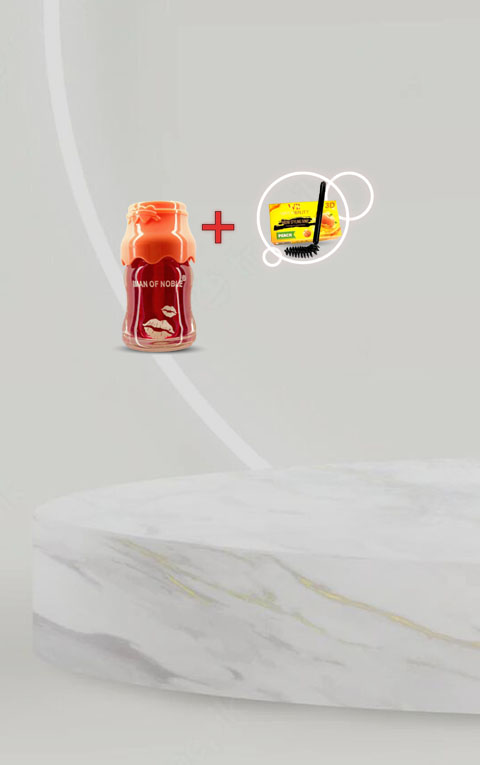
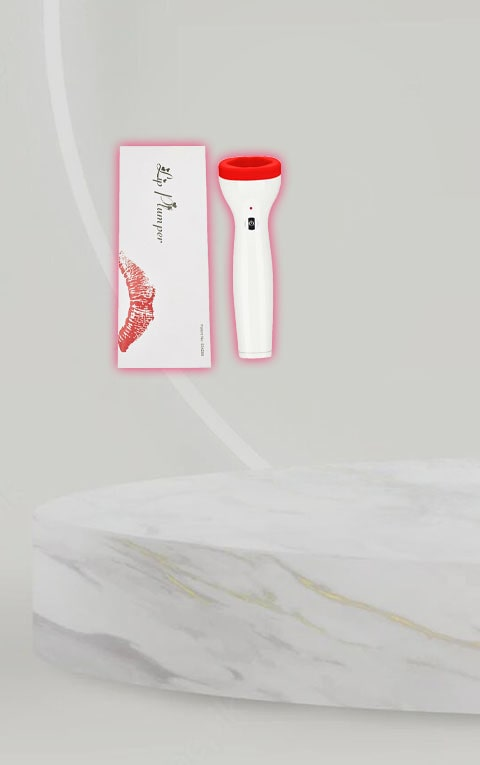
Lip Enlarger v1

Changed region(s): [[0.2188, 0.1804, 0.7812, 0.5111]]

diff --git a/public/purplerelaxFiles/lipenlarger/popup.js b/public/purplerelaxFiles/lipenlarger/popup.js
@@ -1,15 +1,12 @@
- 
-var modal2 = document.getElementById("myModal2");
-var span9 = document.getElementsByClassName("close9")[0];
+
+var orderModal = document.getElementById("orderModal");
+
 $(document).ready(function(){
     $(".fform").click(function() {
-        modal2.style.display = "block";
+        orderModal.style.display = "block";
     });
+    var closeSpan = document.getElementsByClassName("close")[0];
+    closeSpan.onclick = function() {
+        orderModal.style.display = "none";
+    };
 });
- 
-window.onclick = function(event) {
-    if (event.target == modal2) {
-        modal2.style.display = "none";
-    }
-   
-}

diff --git a/public/purplerelaxFiles/lipenlarger/style.css b/public/purplerelaxFiles/lipenlarger/style.css
@@ -190,7 +190,7 @@ a {
     margin: auto;
     padding: 30px 0;
     border: 1px solid #888;
-    width: 337px;
+    width: 337px !important;
     text-align: center;
 
 }

diff --git a/resources/views/lander/purplerelax/rs/lipenlarger.blade.php b/resources/views/lander/purplerelax/rs/lipenlarger.blade.php
@@ -26,29 +26,24 @@
     </style>
 </head>
 <body>
+@include('components.display_errors')
 <header class="bl1-1">
     <div class="bl1">
         <div class="lm">
-            <p class="main-text">
-                IMAN OF NOBLE Lipstick water<br>
-                Тинт для губ
-            </p>
+            <p class="main-text">LEPE I PUNE USNE BEZ SKUPIH TRETMANA I HIRURGIJE</p>
             <div class="b1-d">
-                <p class="b1-p">В подарок! </p>
-                <p class="b1-mp">WARDA BEAUTY</p>
-                <p class="b1-p">
-                    brow styling soap<br>
-                    colorless & lasting nature</p>
+                <p class="b1-mp">PREDSTAVLJAMO VAM</p>
+                <p class="b1-p">Lip Enlarger za povećavanje usana</p>
                 <img src="{{ asset('/') }}purplerelaxFiles/lipenlarger/sale.png" class="b1-sale">
                 <div class="b1-price">
                     <p class="old-prise">
-                        {{ $prices[1]['originalPrice'] }}
+                        {{ $prices[1]['originalPrice'] }} <span class="b1-wal">{{ $prices[1]['currency'] }}</span>
                     </p>
                     <img src="{{ asset('/') }}purplerelaxFiles/lipenlarger/line.png" class="line" width="70">
                     <p class="new-prise">
                         {{ $prices[1]['amount'] }}
                         <span class="b1-wal">{{ $prices[1]['currency'] }}</span></p>
-                    <a href="#order_form" class="button fform">Заказать сейчас</a>
+                    <a href="#order_form" class="button fform">Poručite sada</a>
                 </div>
             </div>
         </div>
@@ -57,25 +52,22 @@
 <section class="bl2-2">
     <div class="bl2">
         <p class="main-text">
-            ОПИСАНИЕ
+            OPIS PROIZVODA
         </p>
         <p class="bl2-m">
-            IMAN OF NOBLE Lipstick water - Придаст вашим губам яркий, естественный оттенок, который не растекается, не
-            оставляет следов на посуде и одежде,
-            не смазывается при поцелуях. Держится более 8 часов. Невероятную стойкость средства обеспечивают пигменты,
-            которые надолго впитываются в поверхность
-            кожи. Не сушит кожу и абсолютно не ощущается на губах. Только яркий цвет и приятный аромат.
+            Daće vašim usnama punoću i veoma lep izgled. Potpuno je prirodan, ne koriste se nikakva hemija i apsolutno
+            je bezbolan.
+            Radi na principu vakuma koji uvlači usne u silikonski oblik koji ima konture savršenih usana.
+            Na taj način se pojačava kolagen usana, istežu se i postaju baš onakve kakve želite da budu.
         </p>
         <div class="b2-fx">
             <div class="b2-l">
                 <ul class="b2-u">
-                    <li>· Бренд - IMAN OF NOBL</li>
-                    <li>· вес - 10гр</li>
-                    <li>· высота флакона - 4см</li>
-                    <li>· глубина флакона - 2см</li>
-                    <li>· Состав:<br>вода, глицерин, стеариновая кислота, пчелиный воск, парафиновая жидкость, масло
-                        жожоба, масло ши, экстракт стевии и витамин Е
-                    </li>
+                    <li>· Proizvod je testiran</li>
+                    <li>· Odobren je od strane stručnjaka</li>
+                    <li>· Vrlo je kvalitetan i pouzdan</li>
+                    <li>· Daje odlične rezultate</li>
+                    <li>· Radi punjivu bateriju i puni se na USB kabl</li>
                 </ul>
             </div>
             <div class="b2-r">
@@ -87,29 +79,29 @@
 <section class="bl4-4">
     <div class="bl4">
         <p class="main-text">
-            СПОСОБ ПРИМЕНЕНИЯ
+            NAČIN PRIMENE
         </p>
         <div class="bl4-f">
             <div class="bl4-d">
-                <div class="bl4-p">1. Губы до нанесения тинта</div>
+                <div class="bl4-p">1. Uključite aparat</div>
                 <div class="bl4-im">
                     <img src="{{ asset('/') }}purplerelaxFiles/lipenlarger/b1.png" class="bl4-img" alt="">
                 </div>
             </div>
             <div class="bl4-d">
-                <div class="bl4-p">2. Нанесите тинт в 1-2 слоя</div>
+                <div class="bl4-p">2. Osetićete kako vakumski uvlači vazduh</div>
                 <div class="bl4-im">
                     <img src="{{ asset('/') }}purplerelaxFiles/lipenlarger/b2.png" class="bl4-img" alt="">
                 </div>
             </div>
             <div class="bl4-d">
-                <div class="bl4-p">3. Когда слой высохнет его нужно удалить с губ</div>
+                <div class="bl4-p">3. Navlažite usne i naslonite uređaj tako da vakumski uvuče usne</div>
                 <div class="bl4-im">
                     <img src="{{ asset('/') }}purplerelaxFiles/lipenlarger/b3.png" class="bl4-img" alt="">
                 </div>
             </div>
             <div class="bl4-d">
-                <div class="bl4-p">4. Наслаждайтесь полученным результатом</div>
+                <div class="bl4-p">4. Držite ga 1 do 2 minuta više puta dnevno - iznenadiće vas pozitivan efekat</div>
                 <div class="bl4-im">
                     <img src="{{ asset('/') }}purplerelaxFiles/lipenlarger/b4.png" class="bl4-img" alt="">
                 </div>
@@ -141,39 +133,39 @@
 <section class="bl6-6">
     <div class="bl6">
         <p class="main-text">
-            ОТЗЫВЫ
+            UTISCI NAŠIH KUPACA
         </p>
         <div class="bl6-ot">
             <div class="bl6-fl">
                 <div class="bl6-n">
                     <img src="{{ asset('/') }}purplerelaxFiles/lipenlarger/o1.png" class="bl6-img" alt="">
-                    <p class="bl6-name">Екатерина</p>
+                    <p class="bl6-name">Katarina</p>
                 </div>
                 <div class="bl6-t">
-                    <div class="bl6-p">Очень понравилась упаковка, сам продукт очень приятно пахнет и сладковат на вкус.
-                        Очень насыщенный цвет, стойкий. Мне нравится!
+                    <div class="bl6-p">Zaista mi se dopala ova spravica. Odlična je, dala je mojim usnama volumen!
+                        TOP!
                     </div>
                 </div>
             </div>
             <div class="bl6-fl">
                 <div class="bl6-n">
                     <img src="{{ asset('/') }}purplerelaxFiles/lipenlarger/o2.png" class="bl6-img" alt="">
-                    <p class="bl6-name">Мария</p>
+                    <p class="bl6-name">Marija</p>
                 </div>
                 <div class="bl6-t">
-                    <div class="bl6-p">Думаю, что такой продукт может стать отличной покупкой и будет радовать своего
-                        обладателя долгое время. Хорошее средство!
+                    <div class="bl6-p">Mislim da ovako dobar proizvod dugo nisam kupila. Obavezno ga koristim uveče pred
+                        izlazak. Drugarice su me pitale da li sam stavila silikon u usne :)
                     </div>
                 </div>
             </div>
             <div class="bl6-fl">
                 <div class="bl6-n">
                     <img src="{{ asset('/') }}purplerelaxFiles/lipenlarger/o3.png" class="bl6-img" alt="">
-                    <p class="bl6-name">Ольга</p>
+                    <p class="bl6-name">Olga</p>
                 </div>
                 <div class="bl6-t">
-                    <div class="bl6-p">Хороший продукт. Пол дня держится на отлично. Главное правильно наносить. Губы не
-                        сушит. Приятный на вкус и запах.
+                    <div class="bl6-p">Super stvar. Želela sam punije usne a plašila sam se igle. Ovo je rešenje koje me
+                        je oduševilo. Pritom da je jako pristupačna cena, kupila sam na popustu.
                     </div>
                 </div>
             </div>
@@ -183,29 +175,30 @@
 <section class="bl7-7">
     <div class="bl7">
         <p class="main-text">
-            КАК СДЕЛАТЬ ЗАКАЗ?
+            KAKO DO LIP ENLARGER APARATA?
         </p>
         <div class="bl7-fl">
             <div class="bl7-d">
                 <img src="{{ asset('/') }}purplerelaxFiles/lipenlarger/k1.png" class="bl7-k" alt="">
                 <div class="bl7-t">
-                    <p class="bl7-m">ОФОРМЛЕНИЕ</p>
-                    <p class="bl7-p">Оставьте заявку на нашем сайте, и мы свяжемся с вами для оформления заказа.</p>
+                    <p class="bl7-m">PORUČITE</p>
+                    <p class="bl7-p">Ostavite svoje podatke na našem sajtu i kontaktiraćemo vas da potvrdimo
+                        porudžbinu.</p>
                 </div>
             </div>
             <div class="bl7-d">
                 <img src="{{ asset('/') }}purplerelaxFiles/lipenlarger/k2.png" class="bl7-k" alt="">
                 <div class="bl7-t">
-                    <p class="bl7-m">ДОСТАВКА</p>
-                    <p class="bl7-p">Мы отправляем ваш заказ почтой или курьером. Время доставки от 2 до 10 рабочих
-                        дней.</p>
+                    <p class="bl7-m">ISPORUKA</p>
+                    <p class="bl7-p">Šaljevo vam porudžbinu brzom poštom u roku od 1-2 radna dana u diskretnom
+                        pakovanju.</p>
                 </div>
             </div>
             <div class="bl7-d">
                 <img src="{{ asset('/') }}purplerelaxFiles/lipenlarger/k3.png" class="bl7-k" alt="">
                 <div class="bl7-t">
-                    <p class="bl7-m">ОПЛАТА</p>
-                    <p class="bl7-p">Никакой предоплаты! Вы оплачиваете заказ при получении товара.</p>
+                    <p class="bl7-m">PLAĆANJE</p>
+                    <p class="bl7-p">Bez plaćanja unapred! Plaćate po prijemu pošiljke kuriru brze pošte!</p>
                 </div>
             </div>
         </div>
@@ -214,30 +207,24 @@
 <section class="bl8-1">
     <div class="bl8">
         <div class="bl8-lm">
-            <p class="main-text">
-                IMAN OF NOBLE Lipstick water<br>
-                Тинт для губ
-            </p>
+            <p class="main-text">LEPE I PUNE USNE BEZ SKUPIH TRETMANA I HIRURGIJE</p>
             <img src="{{ asset('/') }}purplerelaxFiles/lipenlarger/sale.png" class="b8-sale">
 
             <div class="b8-d">
                 <div class="bl8-l">
-                    <p class="b8-p">В подарок! </p>
-                    <p class="b8-mp">WARDA BEAUTY</p>
-                    <p class="b8-p">
-                        brow styling soap<br>
-                        colorless & lasting nature</p>
+                    <p class="b8-mp">PREDSTAVLJAMO VAM</p>
+                    <p class="b8-p">Lip Enlarger za povećavanje usana</p>
                 </div>
                 <div class="bl8-r">
                     <div class="b8-price">
                         <p class="old-prise2">
-                            {{ $prices[1]['originalPrice'] }}
+                            {{ $prices[1]['originalPrice'] }} <span class="b1-wal">{{ $prices[1]['currency'] }}</span>
                         </p>
                         <img src="{{ asset('/') }}purplerelaxFiles/lipenlarger/line.png" class="line2" width="80">
                         <p class="new-prise2">
                             {{ $prices[1]['amount'] }}
                             <span class="b1-wal">{{ $prices[1]['currency'] }}</span></p>
-                        <a href="#order_form" class="button fform">Заказать сейчас</a>
+                        <a href="#order_form" class="button fform">Poručite sada</a>
                     </div>
                 </div>
             </div>
@@ -245,31 +232,31 @@
     </div>
 </section>
 
-<div id="myModal2" class="modal2">
+<div id="orderModal" class="modal2">
     <div class="modal-content">
+        <span class="close">&times;</span>
         <div class="slide-block-text">
             <div id="form-wrapper1" class="form form-wrapper">
                 <div class="form_block">
                     <div class="offer_section offer3">
-                        <p class="up-t">Оформить заказ</p>
-                        <form id="order_form" class="order_form" action="#" method="post">
-                            <input class="field" type="text" name="name" placeholder="Имя..." required="" value="">
-                            <input class="field" type="tel" name="phone" placeholder="Телефон..." required="" value="">
-                            <button class="button" type="submit">Купить</button>
-                            <!-- HIDDENS -->
-
-                            <!-- HIDDENS -->
+                        <p class="up-t">Unesite podatke za dostavu</p>
+                        <form id="order_form" class="order_form" action="{{$orderRoute}}" method="post">
+                            {{ csrf_field() }}
+                            @include('lander.naturapharm.components.form_hidden_fields')
+                            <input class="field" type="text" name="name" placeholder="Ime i prezime" required="" value="">
+                            <input class="field" type="tel" name="phone" placeholder="Telefon" required="" value="">
+                            <input class="field" type="text" name="shipping_address" placeholder="Adresa" required="" value="">
+                            <input class="field" type="text" name="shipping_city" placeholder="Grad" required="" value="">
+                            <button class="button" type="submit">Poruči</button>
                         </form>
                     </div>
                 </div>
             </div>
         </div>
-
     </div>
+</div>
 
 </div>
-</div>
-<script type="text/javascript" src="{{ asset('/') }}purplerelaxFiles/lipenlarger/popup.js"></script>
 <script src="{{ asset('/') }}shared_files/slick.min.js"></script>
 <script>
     $('.slider').slick({
@@ -318,5 +305,7 @@
         ]
     });
 </script>
+<script type="text/javascript" src="{{ asset('/') }}purplerelaxFiles/lipenlarger/popup.js"></script>
+@include('components.pixel_footer')
 </body>
 </html>
